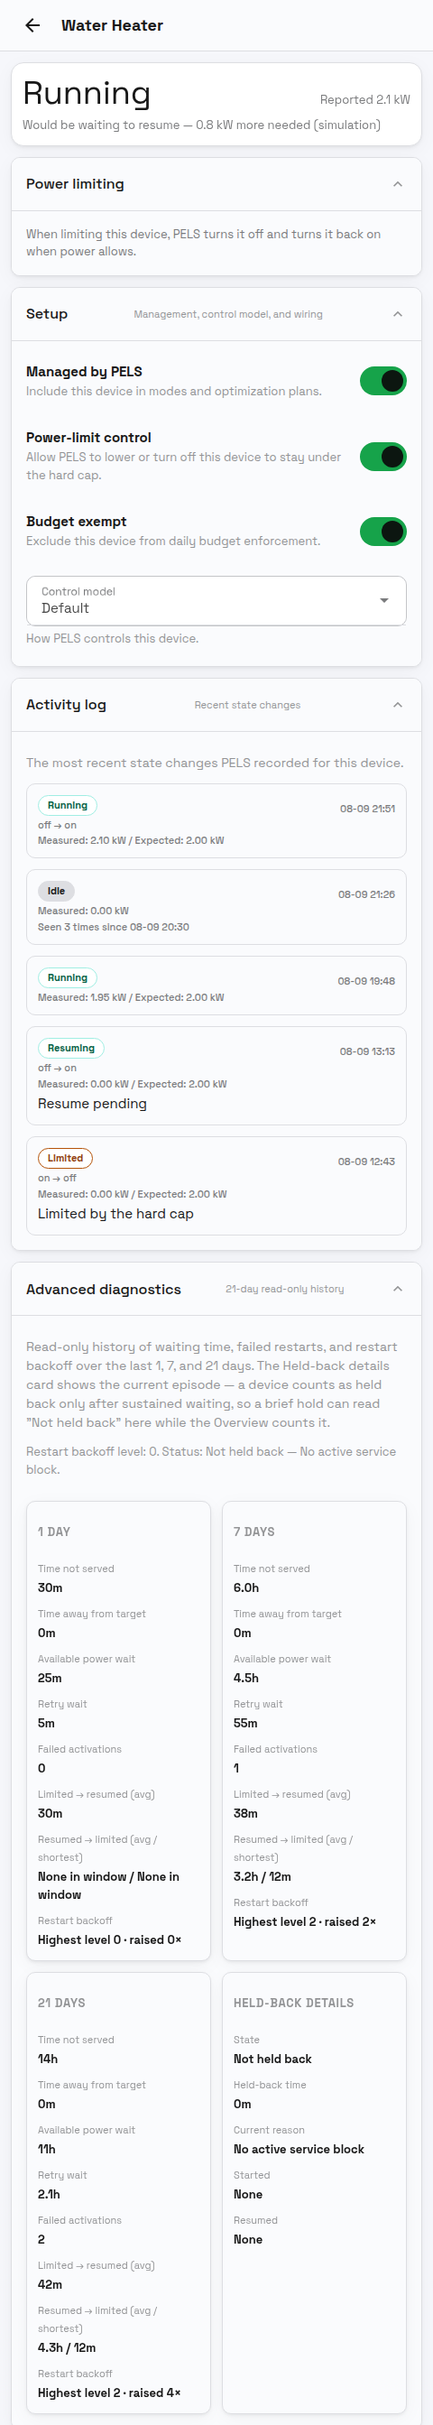
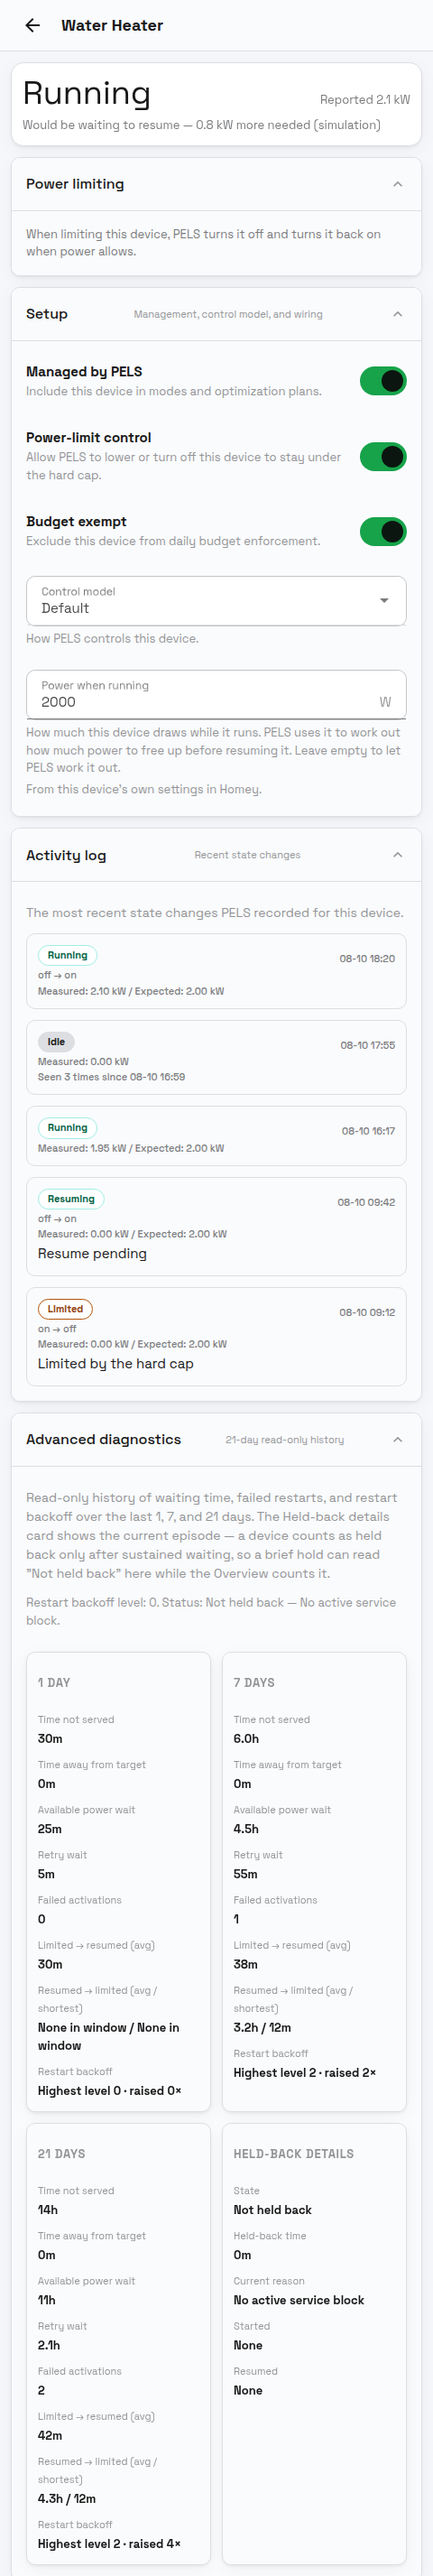
Show Power when running in the device-page screenshots
The device-detail captures were shot at 9edcf2ebe. Five commits later the
device page grew a Power when running field in its Setup section (995e9b0c9),
so docs/configuration.md documented a control that its own screenshot did not
show, and the alt text listed only Managed by PELS and Power-limit control.

Refreshing the captures exposed a second, older gap: the field renders a
sentence saying where its figure came from, and every capture omitted it.
`DeviceDescriptor.expectedPowerSource` is REQUIRED because the producer always
knows which rung it took, but `target_devices_snapshot` never set it, so
`expectedPowerSourceLine` fell through its `never` guard and returned ''. The
images documented a state production cannot emit, beside prose promising the
opposite. Seeds a plausible rung on all ten device descriptors in that fixture:
the heat pump measured, the water heater and chargers from their Homey load
settings, the small heaters left on the default estimate.

The full-panel capture now asserts both halves of the field before shooting,
alongside the existing guards for the control-model select and the async log
and diagnostics cards. It is an assertion, not a wait: both halves render
synchronously, so an empty one means the fixture is wrong.

Keeps the five images whose content moved. The two stepped-device captures are
unchanged, matching the documented behaviour that the field is not shown for
[…]

diff --git a/packages/settings-ui/tests/e2e/device-detail-full-screenshot.spec.ts b/packages/settings-ui/tests/e2e/device-detail-full-screenshot.spec.ts
@@ -278,7 +278,17 @@ const expandAllSections = async (page: Page) => {
   });
 };
 
-const fullPanelScreenshot = async (page: Page, name: string) => {
+/**
+ * `steppedLoad` devices size their power per configured step, so the Power when
+ * running field is not offered for them. Every other device must show it: a
+ * missing or hidden row there is the regression this assertion exists to catch,
+ * so it is stated per capture rather than inferred from the DOM.
+ */
+const fullPanelScreenshot = async (
+  page: Page,
+  name: string,
+  { steppedLoad = false }: { steppedLoad?: boolean } = {},
+) => {
   const panel = page.locator('#device-detail-panel');
   await panel.waitFor();
   // Late-settling content must land BEFORE the height measurement below, or
@@ -290,16 +300,36 @@ const fullPanelScreenshot = async (page: Page, name: string) => {
   // - the activity log and diagnostics sections fetch on open and append
   //   their cards asynchronously (the water-heater capture cut the 1/7/21
   //   diagnostics cards).
-  await page.waitForFunction(() => {
+  //
+  // Power when running is asserted rather than waited for: both halves render
+  // synchronously, so an empty one means the fixture is wrong, not early. The
+  // heat-pump capture shipped without the provenance sentence because the
+  // fixture omitted `expectedPowerSource` (REQUIRED on `DeviceDescriptor`, so
+  // `expectedPowerSourceLine` fell through its `never` guard to ''), which is
+  // a state production cannot emit. Failing the capture beats shipping a doc
+  // image that contradicts the prose it illustrates.
+  await page.waitForFunction((expectPowerField) => {
     const select = document.querySelector('#device-detail-control-model') as
       | { displayText?: string }
       | null;
     if (select && (select.displayText ?? '') === '') return false;
+    if (expectPowerField) {
+      const expectedPowerRow = document.querySelector('#device-detail-expected-power-row') as
+        | HTMLElement
+        | null;
+      if (!expectedPowerRow || expectedPowerRow.hidden) return false;
+      const field = document.querySelector('#device-detail-expected-power') as
+        | HTMLInputElement
+        | null;
+      if ((field?.value ?? '') === '') return false;
+      const source = document.querySelector('#device-detail-expected-power-source');
+      if ((source?.textContent ?? '') === '') return false;
+    }
     const logBody = document.querySelector('#device-detail-activity-log-body');
     if (logBody?.textContent?.includes('Loading activity')) return false;
     const diagnosticsStatus = document.querySelector('#device-detail-diagnostics-status');
     return !diagnosticsStatus?.textContent?.includes('Loading diagnostics');
-  });
+  }, !steppedLoad);
   const scrollHeight = await page.evaluate(() => {
     const el = document.querySelector<HTMLElement>('#device-detail-panel');
     if (!el) return 900;
@@ -336,13 +366,13 @@ test('on/off — water heater', async ({ page }) => {
 test('stepped — Zaptec EV charger', async ({ page }) => {
   await openDeviceDetail(page, 'dev_zaptec');
   await expandAllSections(page);
-  await fullPanelScreenshot(page, 'mw-stepped-zaptec-full');
+  await fullPanelScreenshot(page, 'mw-stepped-zaptec-full', { steppedLoad: true });
 });
 
 test('stepped — Connected 300 water heater', async ({ page }) => {
   await openDeviceDetail(page, 'dev_connected300');
   await expandAllSections(page);
-  await fullPanelScreenshot(page, 'mw-stepped-connected300-full');
+  await fullPanelScreenshot(page, 'mw-stepped-connected300-full', { steppedLoad: true });
 });
 
 test('held hero — power-limited, outside simulation', async ({ page }) => {

diff --git a/packages/settings-ui/tests/e2e/fixtures/homey.stub.js b/packages/settings-ui/tests/e2e/fixtures/homey.stub.js
@@ -543,6 +543,7 @@
     evChargingState: 'plugged_in_paused',
     measuredPowerKw: 0,
     expectedPowerKw: 7.2,
+    expectedPowerSource: 'load-setting',
     capabilities: ['evcharger_charging', 'evcharger_charging_state'],
   };
   // Only injected for specs that flip the charger managed (see
@@ -557,6 +558,7 @@
     priority: 6,
     controllable: true,
     expectedPowerKw: 7.2,
+    expectedPowerSource: 'load-setting',
     currentDrawKw: 0,
     reason: { code: 'capacity', shortfallKw: 5.8 },
     shedAction: 'turn_off',
@@ -575,6 +577,7 @@
         capabilities: ['onoff'],
         measuredPowerKw: 1.2,
         expectedPowerKw: 1.6,
+        expectedPowerSource: 'measured-peak',
         targets: [{ name: 'target_temperature', value: 22 }],
       },
       {
@@ -587,6 +590,7 @@
         capabilities: ['onoff'],
         measuredPowerKw: 0.4,
         expectedPowerKw: 0.6,
+        expectedPowerSource: 'homey-energy',
         targets: [{ name: 'target_temperature', value: 24 }],
       },
       {
@@ -597,6 +601,7 @@
         deviceClass: 'waterheater',
         measuredPowerKw: 2.1,
         expectedPowerKw: 2.0,
+        expectedPowerSource: 'load-setting',
       },
       {
         id: 'dev_poolpump',
@@ -613,6 +618,7 @@
         capabilities: ['onoff'],
         measuredPowerKw: 0,
         expectedPowerKw: 1.0,
+        expectedPowerSource: 'homey-energy',
       },
       {
         id: 'dev_bedroom',
@@ -624,6 +630,7 @@
         capabilities: ['onoff'],
         measuredPowerKw: 0,
         expectedPowerKw: 0.5,
+        expectedPowerSource: 'default',
         currentTemperature: 20.8,
         targets: [{ name: 'target_temperature', value: 16 }],
       },
@@ -637,6 +644,7 @@
         capabilities: ['onoff'],
         measuredPowerKw: 0,
         expectedPowerKw: 0.8,
+        expectedPowerSource: 'default',
         currentTemperature: 19.1,
         targets: [{ name: 'target_temperature', value: 20 }],
       },
@@ -653,6 +661,7 @@
         currentOn: true,
         measuredPowerKw: 1.38,
         expectedPowerKw: 1.38,
+        expectedPowerSource: 'load-setting',
         capabilities: ['evcharger_charging', 'evcharger_charging_state'],
         steppedLoadProfile: {
           model: 'stepped_load',
@@ -682,6 +691,7 @@
         plannedTarget: 65,
         measuredPowerKw: 0.0,
         expectedPowerKw: 0.0,
+        expectedPowerSource: 'default',
         capabilities: ['onoff'],
         steppedLoadProfile: {
           model: 'stepped_load',

diff --git a/TODO.md b/TODO.md
@@ -1829,6 +1829,26 @@ program) remain deferred.*
       lower a budget the home has been running past. Add the one-line caveat to the
       "Auto-applying the suggested budget" section. Source: 2026-08-02 release review, docs
       freshness pass. [P2]
+- [ ] **Widget doc screenshots are stale; the harness that refreshes them is never run.**
+      `docs/public/screenshots/widgets/*.png` were captured 2026-07-03 (two on 2026-06-01), but
+      `widgets/*/public/index.js` changed in 7abfcfaba (2026-08-05, which rewrote the held-card
+      copy), 42834e1bd (2026-08-07) and d0cab7bc3 (2026-08-09), so the held-back and smart-task
+      images show retired copy. `npm run docs:widget-screenshots`
+      (`scripts/build-doc-widget-screenshots.mjs`) regenerates all ten from the real built widget
+      and needs no Homey, but it is documented as "run locally (not in CI)" and nothing prompts it
+      — so widget copy changes ship without it. Re-run it, and give it the same
+      change-triggered prompt the settings-UI captures get. Source: 2026-08-10 docs/screenshot
+      freshness pass. [P2]
+- [ ] **Eleven device-detail captures are committed but referenced by no docs page.**
+      `docs/public/screenshots/device-detail/` holds fourteen images; only
+      `mw-thermostat-heatpump-full` (`docs/configuration.md`) and the two `solar-surplus-*`
+      (`docs/solar.md`) are used. `held-hero`, `diagnostics-open`, `setup-expanded`,
+      `thermostat-top`, `stepped-zaptec`, `shedding-with-temperature`, and the five remaining
+      `mw-*-full` variants are referenced only by the capture specs that produce them (plus one
+      citation in a `style.css:5418` comment), as is `docs/screenshots/deadline-plan/320.png`.
+      Either wire them into the pages they were shot for or stop capturing them — right now they
+      cost a refresh every time the device page moves and pay nothing back. Source: 2026-08-10
+      docs/screenshot freshness pass. [P2]
 - [ ] **The displayed restore shortfall omits live startup reservations.** When a
       higher-priority startup reservation (`headroomReserve`) is active, non-swap stepped
       rejections and binary batch continuations build their reason from the RAW headroom margin,

diff --git a/docs/configuration.md b/docs/configuration.md
@@ -115,7 +115,7 @@ Device detail sections. The page composes per device kind — an EV charger, a t
 | **Activity log** | All devices | Recent state changes PELS recorded for this device. |
 | **Advanced diagnostics** | All devices | Read-only history of waiting time, failed restarts, and restart backoff. |
 
-![PELS device detail page for a heat pump showing Temperature per mode, Price response, Power limiting, and the Setup toggles including Managed by PELS and Power-limit control](/screenshots/device-detail/mw-thermostat-heatpump-full.png)
+![PELS device detail page for a heat pump showing the live status header, Temperature per mode, Price response, Solar surplus, Power limiting, and the Setup section with Managed by PELS, Power-limit control, Control model, and Power when running](/screenshots/device-detail/mw-thermostat-heatpump-full.png)
 
 Notes:
 
